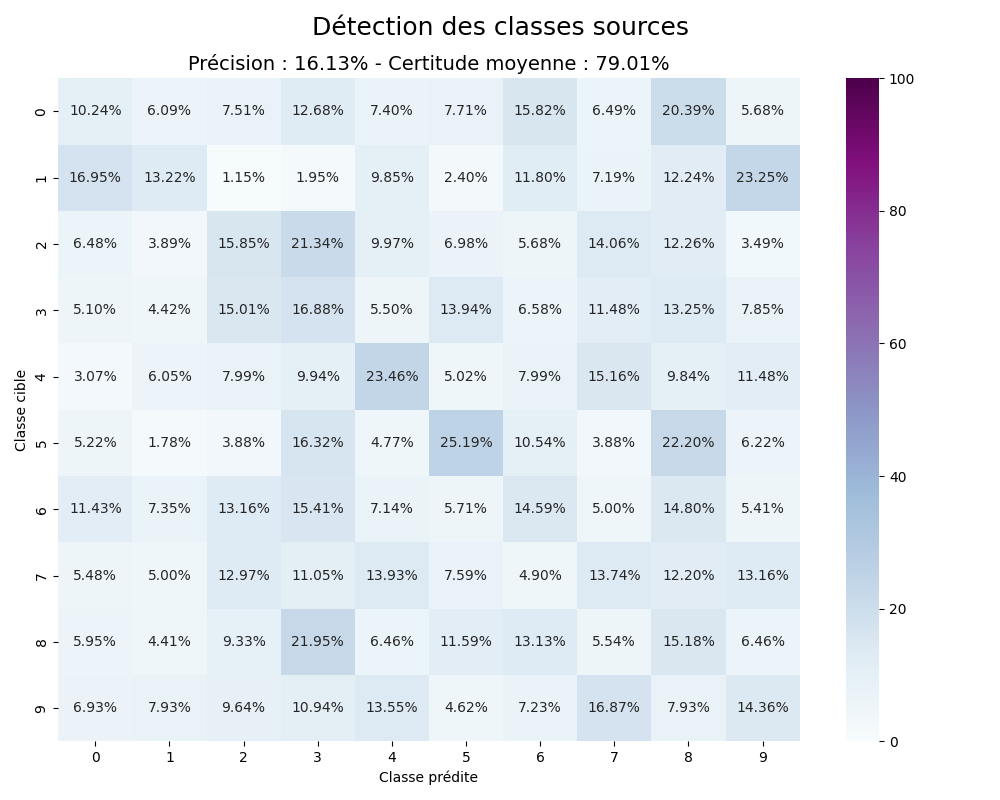
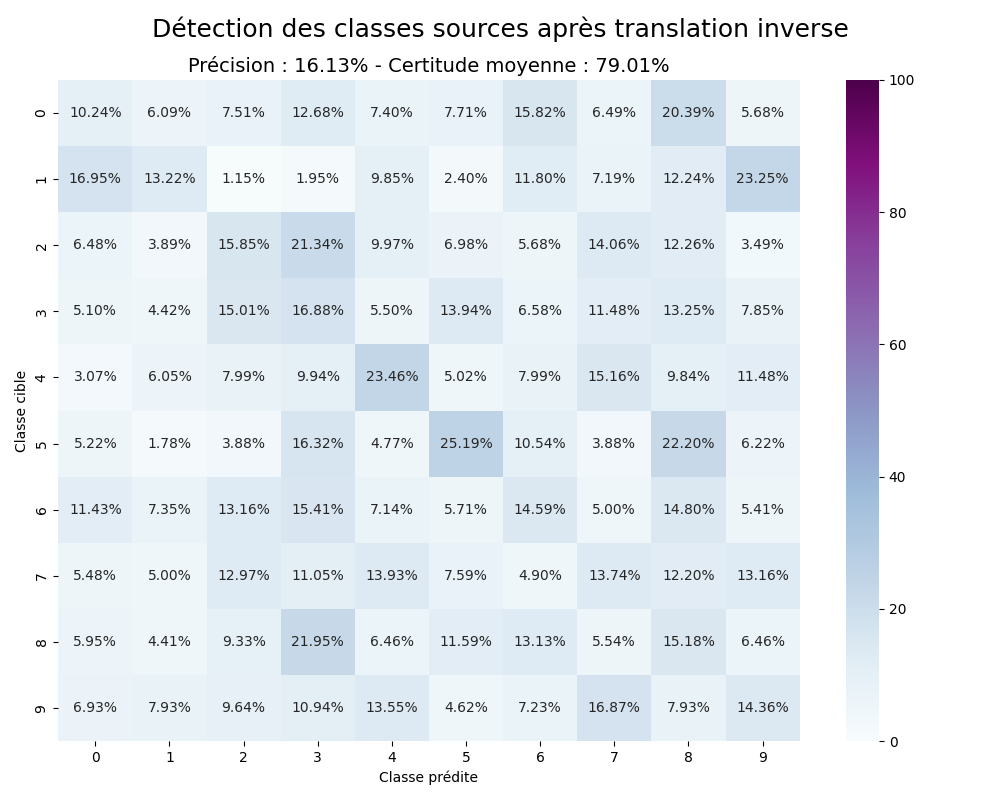
More inverse translation confusion matrices

diff --git a/Code/MNIST/MNIST_BetaVAE_Full_Residual_Classifier_Confusion.py b/Code/MNIST/MNIST_BetaVAE_Full_Residual_Classifier_Confusion.py
@@ -1,3 +1,5 @@
+# c'est le code le plus triste que j'ai fait pendant ce stage
+
 import numpy as np
 
 import matplotlib.pyplot as plt
@@ -51,12 +53,17 @@ X_test_full = np.concatenate((X_split2, X_valid))
 Y_test_full = np.concatenate((Y_split2, Y_valid))
 
 X_classes = [X_test_full[Y_test_full == i] for i in range(10)]
+Y_classes = [Y_test_full[Y_test_full == i] for i in range(10)]
 
 tc = 0.75
 
 split_index = [int(tc * len(cls)) for cls in X_classes]
 
 X_classes2 = [cls[idx:] for cls, idx in zip(X_classes, split_index)]
+X_classes_original2 = np.array(list(itertools.chain(*X_classes2)))
+
+Y_classes2 = [cls[idx:] for cls, idx in zip(Y_classes, split_index)]
+Y_classes_original2 = np.array(list(itertools.chain(*Y_classes2)))
 
 encoder = load_model("./Models/DISVAE/mnist-128-h-encoder.keras")
 decoder = load_model("./Models/DISVAE/mnist-128-h-decoder.keras")
@@ -96,6 +103,7 @@ Y_classes2 = np.repeat(np.arange(10), np.array([len(src_class) for src_class in 
 Y_classes_cat2 = to_categorical(Y_classes2, 10)
 
 X_classes2 = np.array(list(itertools.chain(*X_classes2)))
+X_classes_original2 = tf.image.resize(X_classes_original2, (28, 28))
 X_classes2 = tf.image.resize(X_classes2, (28, 28))
 X_classes_inverse2 = tf.image.resize(X_classes_inverse2, (28, 28))
 
@@ -113,11 +121,38 @@ classifier = load_model("./Models/Classifieur/classifier.keras")
 res_classifier = load_model("./Models/Classifieur/residual-classifier-128.keras")
 detect_classifier = load_model("./Models/Classifieur/residual-detection-classifier-128.keras")
 
+# Reconnaissance de la classe sans translation (détection de trace)
+Y_pred = res_classifier.predict(X_classes_original2)
+
+Y_pred_classes = np.argmax(Y_pred, axis = 1)
+
+certainty = np.max(Y_pred, axis=1)
+average_certainty = np.mean(certainty)
+
+accuracy = accuracy_score(Y_classes_original2, Y_pred_classes)
+
+cm = confusion_matrix(Y_classes_original2, Y_pred_classes)
+
+row_sums = cm.sum(axis=1, keepdims=True)
+percentages = np.where(row_sums == 0, 0, cm / row_sums * 100)
+
+annot = np.array([["{:.2f}%".format(val) for val in row] for row in percentages])
+
+plt.figure(figsize=(10, 8))
+sns.heatmap(percentages, annot=annot, fmt="", cmap="BuPu", vmin=0.0, vmax=100.0)
+plt.xlabel("Classe prédite")
+plt.ylabel("Classe cible")
+plt.suptitle(f"Reconnaissances des classes sans translation par détection de trace", fontsize=18)
+plt.title(f"Précision : {accuracy:.2%} - Certitude moyenne : {average_certainty:.2%}", fontsize=14)
+plt.tight_layout()
+plt.savefig("./Results/mnist-trace-complete-unchanged-classifier-confusion.png")
+
+Y_pred_guessed_src_classes = Y_pred_classes
+
 # Reconnaissance de la classe source (détection de trace)
 Y_pred = res_classifier.predict(X_classes2)
 
 Y_pred_classes = np.argmax(Y_pred, axis = 1)
-#Y_true_classes = np.argmax(Y_classes_cat2, axis = 1)
 
 certainty = np.max(Y_pred, axis=1)
 average_certainty = np.mean(certainty)
@@ -140,6 +175,8 @@ plt.title(f"Précision : {accuracy:.2%} - Certitude moyenne : {average_certainty
 plt.tight_layout()
 plt.savefig("./Results/mnist-trace-classifier-confusion.png")
 
+Y_pred_guessed_dst_classes = Y_pred_classes
+
 # Reconnaissance de la classe destination par translation inverse (détection de trace)
 Y_pred = res_classifier.predict(X_classes_inverse2)
 
@@ -161,7 +198,7 @@ plt.figure(figsize=(10, 8))
 sns.heatmap(percentages, annot=annot, fmt="", cmap="BuPu", vmin=0.0, vmax=100.0)
 plt.xlabel("Classe prédite")
 plt.ylabel("Classe cible")
-plt.suptitle(f"Détection des classes sources", fontsize=18)
+plt.suptitle(f"Détection des classes destination après translation inverse", fontsize=18)
 plt.title(f"Précision : {accuracy:.2%} - Certitude moyenne : {average_certainty:.2%}", fontsize=14)
 plt.tight_layout()
 plt.savefig("./Results/mnist-trace-classifier-confusion-inverse-dst.png")
@@ -187,10 +224,62 @@ plt.figure(figsize=(10, 8))
 sns.heatmap(percentages, annot=annot, fmt="", cmap="BuPu", vmin=0.0, vmax=100.0)
 plt.xlabel("Classe prédite")
 plt.ylabel("Classe cible")
-plt.suptitle(f"Détection des classes sources", fontsize=18)
+plt.suptitle(f"Détection des classes sources après translation inverse", fontsize=18)
 plt.title(f"Précision : {accuracy:.2%} - Certitude moyenne : {average_certainty:.2%}", fontsize=14)
 plt.tight_layout()
 plt.savefig("./Results/mnist-trace-classifier-confusion-inverse-src.png")
+
+# Reconnaissance de la classe prédite par translation inverse (détection de trace)
+Y_pred = res_classifier.predict(X_classes_inverse2)
+
+Y_pred_classes = np.argmax(Y_pred, axis = 1)
+
+certainty = np.max(Y_pred, axis=1)
+average_certainty = np.mean(certainty)
+
+accuracy = accuracy_score(Y_pred_guessed_dst_classes, Y_pred_classes)
+
+cm = confusion_matrix(Y_pred_guessed_dst_classes, Y_pred_classes)
+
+row_sums = cm.sum(axis=1, keepdims=True)
+percentages = np.where(row_sums == 0, 0, cm / row_sums * 100)
+
+annot = np.array([["{:.2f}%".format(val) for val in row] for row in percentages])
+
+plt.figure(figsize=(10, 8))
+sns.heatmap(percentages, annot=annot, fmt="", cmap="BuPu", vmin=0.0, vmax=100.0)
+plt.xlabel("Classe prédite")
+plt.ylabel("Classe cible")
+plt.suptitle(f"Détection des classes destination prédites, après translation inverse", fontsize=18)
+plt.title(f"Précision : {accuracy:.2%} - Certitude moyenne : {average_certainty:.2%}", fontsize=14)
+plt.tight_layout()
+plt.savefig("./Results/mnist-trace-classifier-confusion-inverse-predicted-dst.png")
+
+# Reconnaissance de la classe source prédite par translation inverse (détection de trace)
+Y_pred = res_classifier.predict(X_classes_inverse2)
+
+Y_pred_classes = np.argmax(Y_pred, axis = 1)
+
+certainty = np.max(Y_pred, axis=1)
+average_certainty = np.mean(certainty)
+
+accuracy = accuracy_score(Y_pred_guessed_src_classes, Y_pred_classes)
+
+cm = confusion_matrix(Y_pred_guessed_src_classes, Y_pred_classes)
+
+row_sums = cm.sum(axis=1, keepdims=True)
+percentages = np.where(row_sums == 0, 0, cm / row_sums * 100)
+
+annot = np.array([["{:.2f}%".format(val) for val in row] for row in percentages])
+
+plt.figure(figsize=(10, 8))
+sns.heatmap(percentages, annot=annot, fmt="", cmap="BuPu", vmin=0.0, vmax=100.0)
+plt.xlabel("Classe prédite")
+plt.ylabel("Classe cible")
+plt.suptitle(f"Détection des classes sources prédites, après translation inverse", fontsize=18)
+plt.title(f"Précision : {accuracy:.2%} - Certitude moyenne : {average_certainty:.2%}", fontsize=14)
+plt.tight_layout()
+plt.savefig("./Results/mnist-trace-classifier-confusion-inverse-predicted-src.png")
 
 # Reconnaissance de la classe destination (classification naïve)
 Y_pred = classifier.predict(X_classes2)
@@ -222,7 +311,6 @@ plt.savefig("./Results/mnist-trace-normal-classifier-confusion.png")
 Y_pred = classifier.predict(X_classes_inverse2)
 
 Y_pred_classes = np.argmax(Y_pred, axis = 1)
-#Y_true_classes = np.argmax(Y_classes_cat2, axis = 1)
 
 certainty = np.max(Y_pred, axis=1)
 average_certainty = np.mean(certainty)
